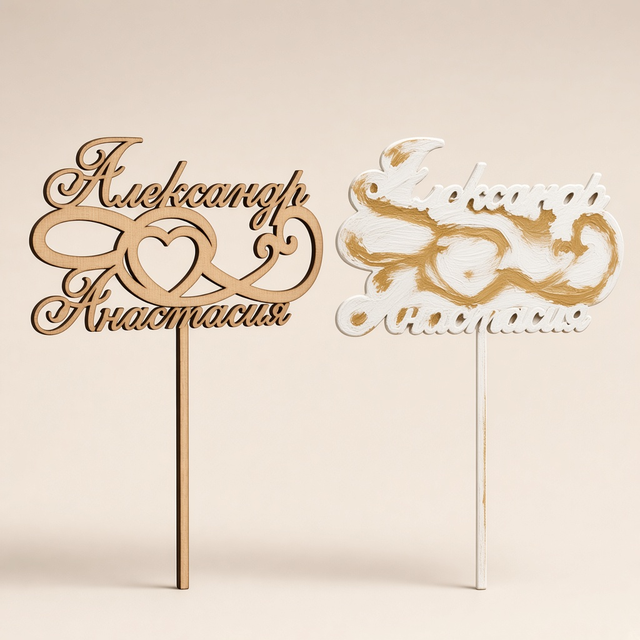
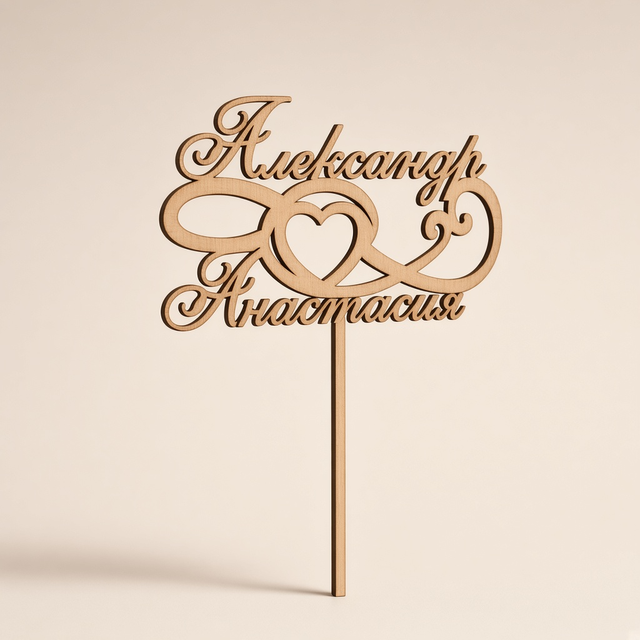
Show only unfinished wooden blanks in the blanks catalog.

Changed region(s): [[0.0312, 0.125, 0.9688, 0.9375], [0.75, 0.6562, 0.7812, 0.8125], [0.6875, 0.9062, 0.75, 0.9375]]

diff --git a/заготовки.html b/заготовки.html
@@ -170,9 +170,9 @@
 
     <header class="page-head">
       <h1>Заготовки для творчества</h1>
-      <p>Лазерные заготовки из фанеры для детского творчества: подвесы, топперы, буквы, силуэты, значки и наборы. На фото — сырая заготовка и пример, как может раскрасить ребёнок кисточкой.</p>
+      <p>Лазерные заготовки из фанеры для детского творчества: подвесы, топперы, буквы, силуэты, значки и наборы. На фото — необработанные заготовки под роспись.</p>
     </header>
-    <p class="note">Размеры, цены и сроки — ориентиры. Покраска на фото нарочно «детская»: неровные мазки, как в садике или школе.</p>
+    <p class="note">Размеры, цены и сроки — ориентиры для согласования. Повторим с вашим текстом и размером.</p>
 
     <section class="grid" aria-label="Варианты заготовок">
       <article class="card">
@@ -181,7 +181,7 @@
         </div>
         <div class="card__body">
           <h2 class="card__title">Цветы и животные</h2>
-          <p class="card__desc">Слева заготовка, справа — как может раскрасить ребёнок.</p>
+          <p class="card__desc">Набор форм из фанеры под роспись и декор.</p>
           <ul class="specs">
             <li><span>Материал</span><strong>Фанера</strong></li>
             <li><span>Размер</span><strong>от 3–15 см</strong></li>
@@ -198,7 +198,7 @@
         </div>
         <div class="card__body">
           <h2 class="card__title">Именные шары-подвесы</h2>
-          <p class="card__desc">Именной подвес: натуральная фанера и раскрашенный вариант.</p>
+          <p class="card__desc">Ёлочные и декоративные подвесы с именем и орнаментом.</p>
           <ul class="specs">
             <li><span>Материал</span><strong>Фанера</strong></li>
             <li><span>Размер</span><strong>Ø примерно 6–10 см</strong></li>
@@ -215,7 +215,7 @@
         </div>
         <div class="card__body">
           <h2 class="card__title">Именные линейки</h2>
-          <p class="card__desc">Именная линейка: заготовка из фанеры и готовый раскрашенный вид.</p>
+          <p class="card__desc">Сантиметровые линейки-заготовки с гравировкой имени.</p>
           <ul class="specs">
             <li><span>Материал</span><strong>Фанера</strong></li>
             <li><span>Размер</span><strong>до 20–30 см</strong></li>
@@ -232,7 +232,7 @@
         </div>
         <div class="card__body">
           <h2 class="card__title">Топперы</h2>
-          <p class="card__desc">Топпер с именами: сырая заготовка и окрашенный пример.</p>
+          <p class="card__desc">Свадебные и праздничные топперы с именами и орнаментом.</p>
           <ul class="specs">
             <li><span>Материал</span><strong>Фанера</strong></li>
             <li><span>Размер</span><strong>по макету</strong></li>
@@ -249,7 +249,7 @@
         </div>
         <div class="card__body">
           <h2 class="card__title">Буквы и цифры</h2>
-          <p class="card__desc">Буквы и цифры: натуральное дерево и цветной вариант.</p>
+          <p class="card__desc">Отдельные символы для декора, метрик и надписей.</p>
           <ul class="specs">
             <li><span>Материал</span><strong>Фанера</strong></li>
             <li><span>Размер</span><strong>от 3 см и выше</strong></li>
@@ -266,7 +266,7 @@
         </div>
         <div class="card__body">
           <h2 class="card__title">Заготовки для часов</h2>
-          <p class="card__desc">Основа для часов: фанера и пример декоративной покраски.</p>
+          <p class="card__desc">Циферблаты и основы под механизм, в том числе ажурные.</p>
           <ul class="specs">
             <li><span>Материал</span><strong>Фанера</strong></li>
             <li><span>Размер</span><strong>Ø 20–40 см</strong></li>
@@ -283,7 +283,7 @@
         </div>
         <div class="card__body">
           <h2 class="card__title">Значки</h2>
-          <p class="card__desc">Значок-заготовка и тот же мотив после покраски.</p>
+          <p class="card__desc">Плоские формы под роспись, эпоксидку и фурнитуру.</p>
           <ul class="specs">
             <li><span>Материал</span><strong>Фанера</strong></li>
             <li><span>Размер</span><strong>3–8 см</strong></li>
@@ -300,7 +300,7 @@
         </div>
         <div class="card__body">
           <h2 class="card__title">Силуэты</h2>
-          <p class="card__desc">Силуэты из фанеры и раскрашенные примеры рядом.</p>
+          <p class="card__desc">Ангелы, животные, бабочки и другие контуры для декора.</p>
           <ul class="specs">
             <li><span>Материал</span><strong>Фанера</strong></li>
             <li><span>Размер</span><strong>по макету</strong></li>
@@ -317,7 +317,7 @@
         </div>
         <div class="card__body">
           <h2 class="card__title">Трафареты для творчества</h2>
-          <p class="card__desc">Трафаретные формы: натуральные и раскрашенные.</p>
+          <p class="card__desc">Яблоки, груши, досочки и другие формы под роспись.</p>
           <ul class="specs">
             <li><span>Материал</span><strong>Фанера</strong></li>
             <li><span>Размер</span><strong>по макету</strong></li>
@@ -334,7 +334,7 @@
         </div>
         <div class="card__body">
           <h2 class="card__title">Наборы для декорирования</h2>
-          <p class="card__desc">Набор мелких форм: заготовки и цветной комплект.</p>
+          <p class="card__desc">Комплекты мелких форм: цветы, сердца, листья, животные.</p>
           <ul class="specs">
             <li><span>Материал</span><strong>Фанера</strong></li>
             <li><span>Состав</span><strong>набор форм</strong></li>

diff --git a/index.html b/index.html
@@ -1121,7 +1121,7 @@
               </div>
               <div class="card__body">
                 <h3 class="card__title">Заготовки для творчества</h3>
-                <p class="card__desc">Заготовка и детская роспись: топперы, буквы, подвесы</p>
+                <p class="card__desc">Топперы, буквы, подвесы, силуэты и наборы под роспись</p>
                 <p class="card__price">Варианты и размеры внутри</p>
                 <span class="btn btn--ghost btn--small btn--block" aria-hidden="true">Смотреть варианты</span>
               </div>
